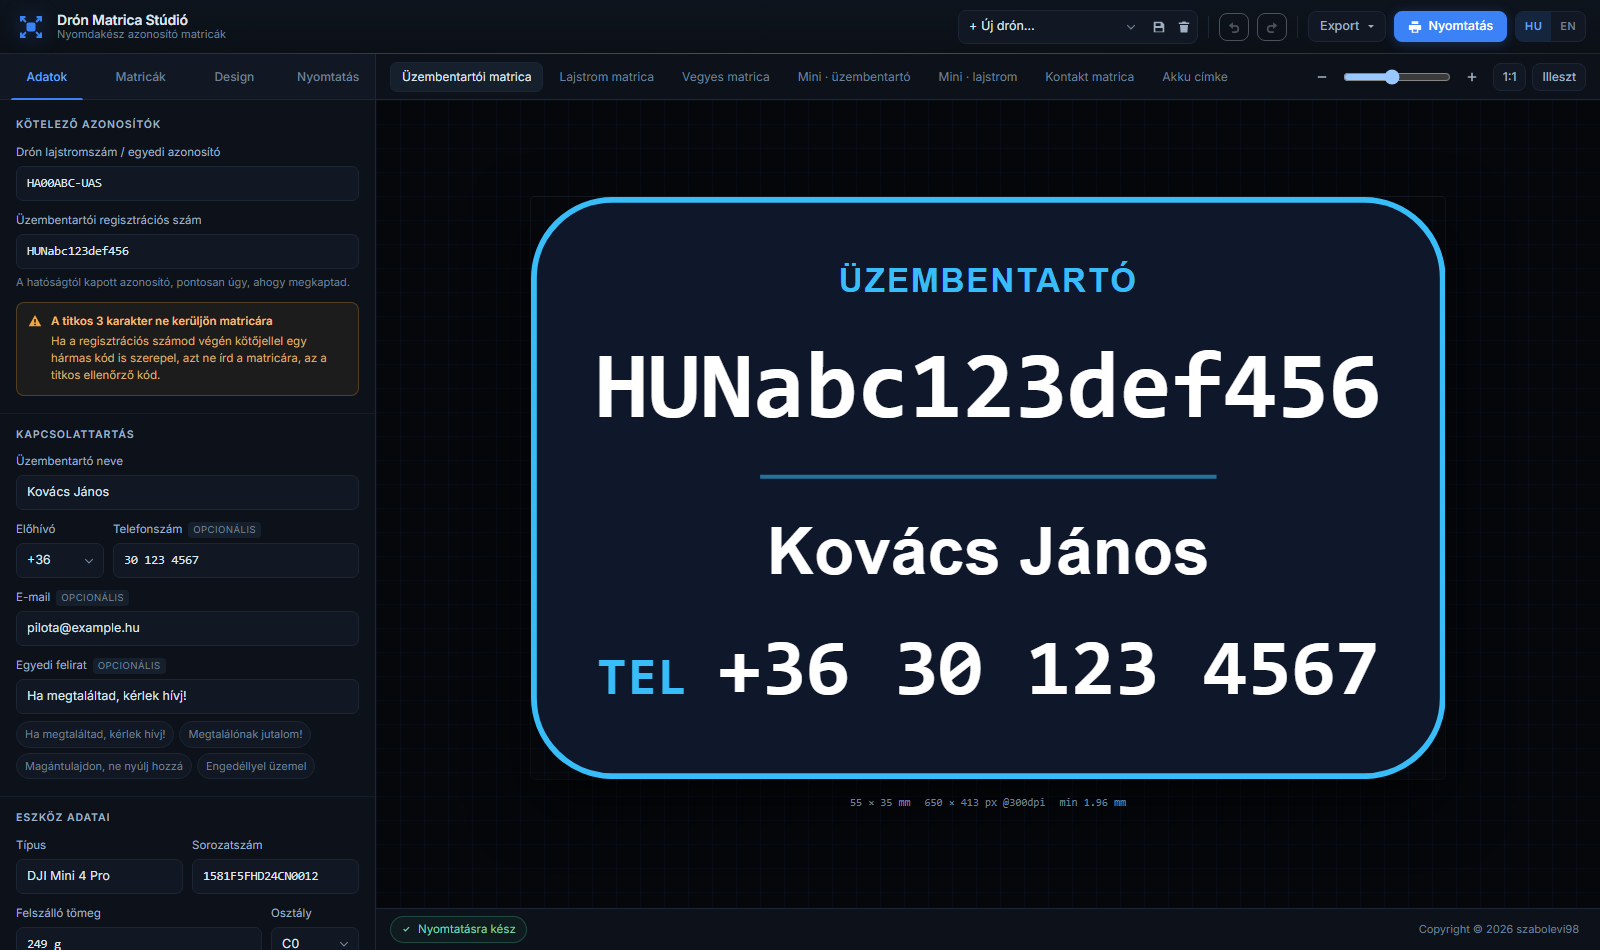
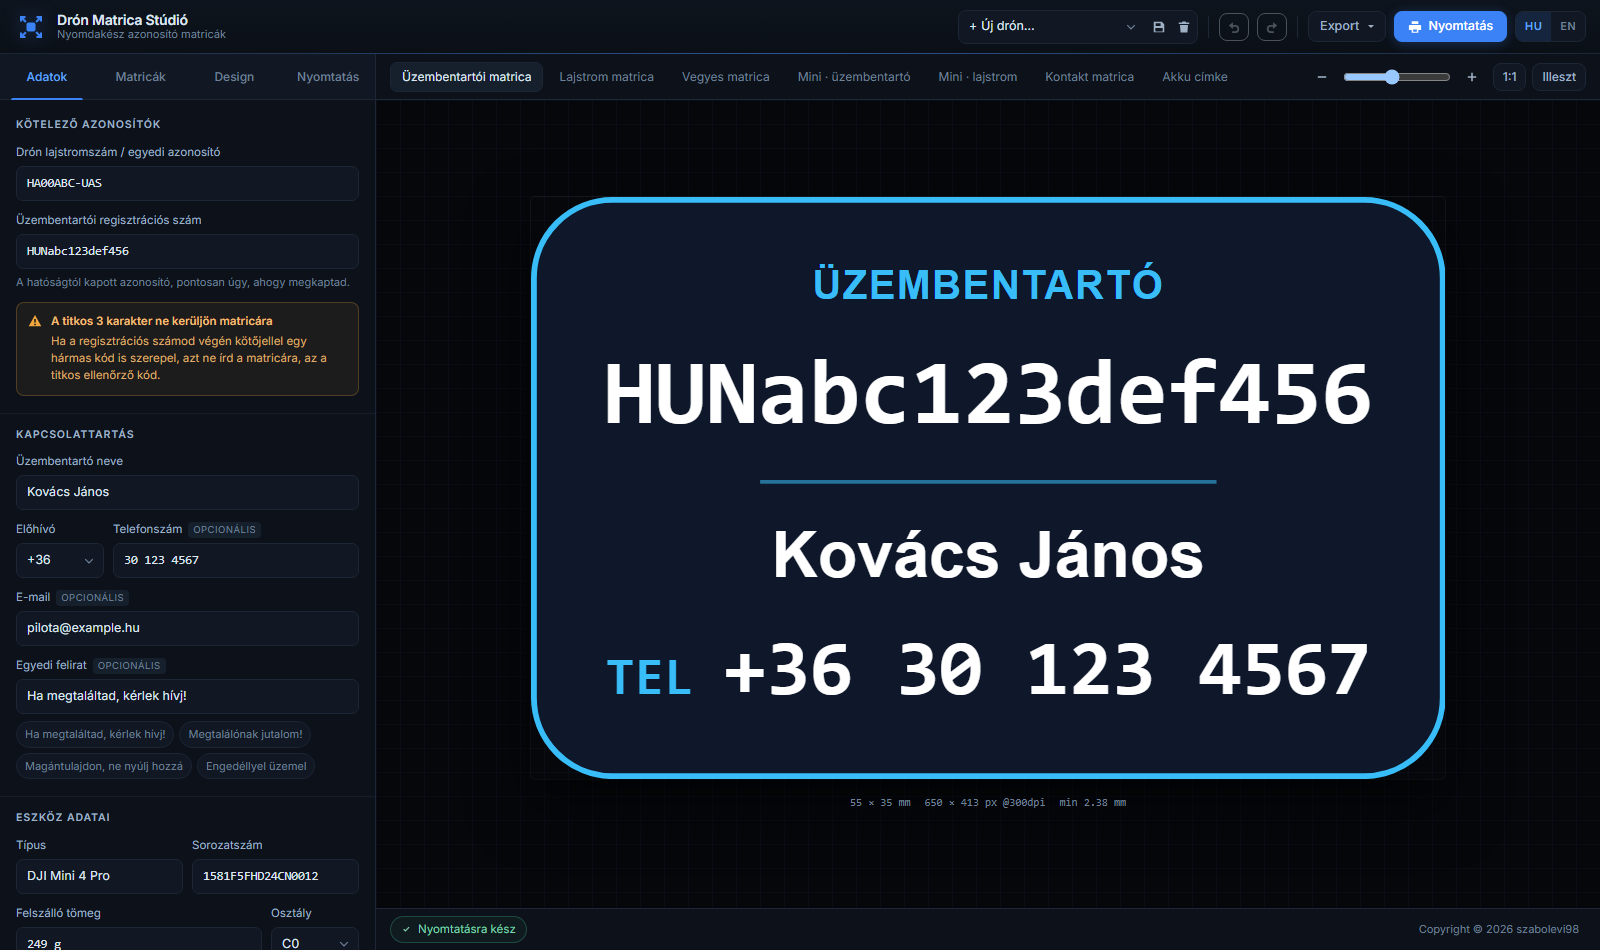
Az alapbeállítások ne fussanak bele az olvashatósági figyelmeztetésbe
Négy okból zsugorodtak a feliratsorok olvashatatlanra:

- a sormagasságok tisztán arányosan oszlottak el, így kis matricán a felirat
  a milliméter töredékére esett. Mostantól minden szövegsor legalább 1,6 mm,
  a nagyobb sorok adják át a helyet; ha ez nem fér bele, marad az arányos
  elosztás
- a 2,2 mm-es belső margó egy 26x10 mm-es címke magasságának több mint felét
  elvitte. A margó a rövidebb oldal 13%-ánál nem lehet nagyobb
- a feliratok súlya 0,5 volt az értékek 1,45-jéhez képest, ez 0,62-re nőtt,
  és a feliratok extra betűköze is csökkent, mert az szélességben szorította
- a kontakt matrica felirata rövidebb lett, mert a QR melletti keskeny
  hasábban a hosszú szöveg erősen zsugorodott

A figyelmeztetés küszöbe 1,8 mm-ről 1,5 mm-re csökkent, hogy a padló alatt
szólaljon meg, ne felette. Mind a hét típus alapból tiszta, a mini matricák
bekapcsolt felirattal is, viszont valós esetben (29 karakteres azonosító
20x8 mm-en, 1,05 mm) továbbra is figyelmeztet.

diff --git a/js/render.js b/js/render.js
@@ -7,6 +7,7 @@ const NS = 'http://www.w3.org/2000/svg';
 const XLINK = 'http://www.w3.org/1999/xlink';
 const LINE = 1.28;
 const GAP = 0.34;
+const MIN_TEXT = 1.6;
 
 let host = null;
 
@@ -41,6 +42,33 @@ function shapeNode(shape, x, y, w, h, r, attrs) {
   }
   const rx = Math.max(0, Math.min(r, Math.min(w, h) / 2));
   return el('rect', { x: num(x), y: num(y), width: num(w), height: num(h), rx: num(rx), ry: num(rx), ...attrs });
+}
+
+function fitSizes(rows, budget, unit) {
+  const base = rows.map(r => unit * r.def.factor);
+  const eligible = rows.map(r => r.def.role === 'label' || r.def.role === 'value' || r.def.role === 'meta');
+  if (!base.some((v, i) => eligible[i] && v < MIN_TEXT)) return base;
+
+  const locked = new Set();
+  for (let guard = 0; guard <= rows.length; guard++) {
+    let fixed = 0;
+    let freeF = 0;
+    rows.forEach((r, i) => {
+      if (locked.has(i)) fixed += MIN_TEXT;
+      else freeF += r.def.factor;
+    });
+    const free = budget / LINE - fixed;
+    if (freeF <= 0 || free <= 0) return base;
+    const k = free / freeF;
+    let next = -1;
+    for (let i = 0; i < rows.length; i++) {
+      if (locked.has(i) || !eligible[i]) continue;
+      if (k * rows[i].def.factor < MIN_TEXT) { next = i; break; }
+    }
+    if (next === -1) return rows.map((r, i) => (locked.has(i) ? MIN_TEXT : k * r.def.factor));
+    locked.add(next);
+  }
+  return base;
 }
 
 function faceText(block, style) {
@@ -123,7 +151,8 @@ export function renderSticker(typeId, state, d) {
     }));
   }
 
-  const pad = style.padding + bw;
+  const padBase = Math.min(style.padding, Math.min(W, H) * 0.13);
+  const pad = padBase + bw;
   let boxX = pad;
   let boxY = pad;
   let boxW = W - pad * 2;
@@ -132,8 +161,8 @@ export function renderSticker(typeId, state, d) {
   if (cfg.shape === 'ellipse' || cfg.shape === 'circle') {
     const rw = (cfg.shape === 'circle' ? Math.min(W, H) : W) / Math.SQRT2;
     const rh = (cfg.shape === 'circle' ? Math.min(W, H) : H) / Math.SQRT2;
-    boxW = rw - style.padding * 2;
-    boxH = rh - style.padding * 2;
+    boxW = rw - padBase * 2;
+    boxH = rh - padBase * 2;
     boxX = (W - boxW) / 2;
     boxY = (H - boxH) / 2;
   }
@@ -198,10 +227,11 @@ export function renderSticker(typeId, state, d) {
 
   const sumF = rows.reduce((s, r) => s + r.def.factor, 0);
   const denom = sumF * LINE + (rows.length - 1) * GAP;
-  let unit = boxH / denom;
-  unit *= style.fill / 100;
+  const unit = boxH / denom * (style.fill / 100);
+  const gapSize = GAP * unit;
+  const sizes = fitSizes(rows, sumF * LINE * unit, unit);
 
-  const total = sumF * LINE * unit + (rows.length - 1) * GAP * unit;
+  const total = sizes.reduce((s, v) => s + v * LINE, 0) + (rows.length - 1) * gapSize;
   let y = boxY + (boxH - total) / 2;
 
   const anchor = style.align;
@@ -210,9 +240,11 @@ export function renderSticker(typeId, state, d) {
 
   const texts = [];
 
+  let rowIndex = -1;
   for (const row of rows) {
+    rowIndex++;
     const def = row.def;
-    const size = unit * def.factor;
+    const size = sizes[rowIndex];
     const rowH = size * LINE;
 
     if (def.role === 'rule') {
@@ -222,7 +254,7 @@ export function renderSticker(typeId, state, d) {
         x1: num(rx0), y1: num(y + rowH / 2), x2: num(rx0 + rw), y2: num(y + rowH / 2),
         stroke: style.accent, 'stroke-width': num(Math.max(0.12, unit * 0.06)), opacity: 0.55
       }));
-      y += rowH + GAP * unit;
+      y += rowH + gapSize;
       continue;
     }
 
@@ -237,7 +269,7 @@ export function renderSticker(typeId, state, d) {
       img.setAttribute('href', media.logo);
       img.setAttributeNS(XLINK, 'xlink:href', media.logo);
       content.appendChild(img);
-      y += rowH + GAP * unit;
+      y += rowH + gapSize;
       continue;
     }
 
@@ -256,7 +288,7 @@ export function renderSticker(typeId, state, d) {
       'font-weight': isLabel ? 600 : def.role === 'value' ? 700 : 500,
       'text-anchor': anchor,
       fill,
-      'letter-spacing': num(style.tracking / 100 + (isLabel ? size * 0.06 : 0)),
+      'letter-spacing': num(style.tracking / 100 + (isLabel ? size * 0.04 : 0)),
       opacity: isMeta ? 0.78 : 1
     });
 
@@ -271,7 +303,7 @@ export function renderSticker(typeId, state, d) {
 
     content.appendChild(node);
     texts.push({ node, size, max: boxW });
-    y += rowH + GAP * unit;
+    y += rowH + gapSize;
   }
 
   const h = measureHost();

diff --git a/js/i18n.js b/js/i18n.js
@@ -58,7 +58,7 @@ const DICT = {
     'v.noReg': 'Nincs megadva lajstromszám',
     'v.overflow': 'A szöveg nem fér ki, nagyobb matrica vagy kevesebb elem kell',
     'v.contrast': 'Gyenge kontraszt, a jelölés nehezen olvasható',
-    'v.tiny': 'A szöveg 1,8 mm alá csökkent, nehezen olvasható lesz nyomtatásban',
+    'v.tiny': 'A szöveg 1,5 mm alá csökkent, nyomtatásban nehezen lesz olvasható',
     'v.qrTight': 'A QR modulmérete kicsi, növeld a QR méretét vagy a matricát',
     'v.ready': 'Nyomtatásra kész',
 
@@ -196,7 +196,7 @@ const DICT = {
 
     'face.operator': 'ÜZEMBENTARTÓ',
     'face.reg': 'LAJSTROMSZÁM',
-    'face.contact': 'HA MEGTALÁLTAD, KÉRLEK HÍVJ',
+    'face.contact': 'HA MEGTALÁLTAD, HÍVJ',
     'face.battery': 'AKKUMULÁTOR',
     'face.tel': 'TEL',
     'face.mail': 'E-MAIL',
@@ -266,7 +266,7 @@ const DICT = {
     'v.noReg': 'No registration number entered',
     'v.overflow': 'Text does not fit, use a larger label or fewer elements',
     'v.contrast': 'Poor contrast, the marking is hard to read',
-    'v.tiny': 'Text dropped below 1.8 mm, it will be hard to read in print',
+    'v.tiny': 'Text dropped below 1.5 mm, it will be hard to read in print',
     'v.qrTight': 'QR module size is small, increase QR or label size',
     'v.ready': 'Ready to print',
 
@@ -404,7 +404,7 @@ const DICT = {
 
     'face.operator': 'UAS OPERATOR',
     'face.reg': 'REGISTRATION',
-    'face.contact': 'IF FOUND, PLEASE CALL',
+    'face.contact': 'IF FOUND, CALL ME',
     'face.battery': 'BATTERY',
     'face.tel': 'TEL',
     'face.mail': 'MAIL',

diff --git a/js/layouts.js b/js/layouts.js
@@ -1,8 +1,8 @@
 export const BLOCKS = {
-  'label.operator': { role: 'label', factor: 0.5, face: 'face.operator' },
-  'label.reg': { role: 'label', factor: 0.5, face: 'face.reg' },
-  'label.contact': { role: 'label', factor: 0.5, face: 'face.contact' },
-  'label.battery': { role: 'label', factor: 0.5, face: 'face.battery' },
+  'label.operator': { role: 'label', factor: 0.62, face: 'face.operator' },
+  'label.reg': { role: 'label', factor: 0.62, face: 'face.reg' },
+  'label.contact': { role: 'label', factor: 0.62, face: 'face.contact' },
+  'label.battery': { role: 'label', factor: 0.62, face: 'face.battery' },
   'rule': { role: 'rule', factor: 0.24, i18n: 'blk.rule' },
   'logo': { role: 'logo', factor: 1.1, i18n: 'blk.logo' },
   'operatorId': { role: 'value', factor: 1.45, mono: true, key: 'operatorId', i18n: 'blk.operatorId' },

diff --git a/js/main.js b/js/main.js
@@ -620,7 +620,7 @@ function updateWarnings(info, d, cc) {
   if (!d.operatorId) list.push(['err', 'v.empty']);
   else if (d.operatorSecret) list.push(['err', 'v.secret']);
   if (!d.regId && (state.active === 'reg' || state.active === 'miniReg')) list.push(['warn', 'v.noReg']);
-  if (info && Number.isFinite(info.minFont) && info.minFont > 0 && info.minFont < 1.8) list.push(['warn', 'v.tiny']);
+  if (info && Number.isFinite(info.minFont) && info.minFont > 0 && info.minFont < 1.5) list.push(['warn', 'v.tiny']);
   if (cc.level === 'bad') list.push(['warn', 'v.contrast']);
   if (info && info.qr && info.qr.module < 0.34) list.push(['warn', 'v.qrTight']);
   if (!list.length) list.push(['ok', 'v.ready']);
